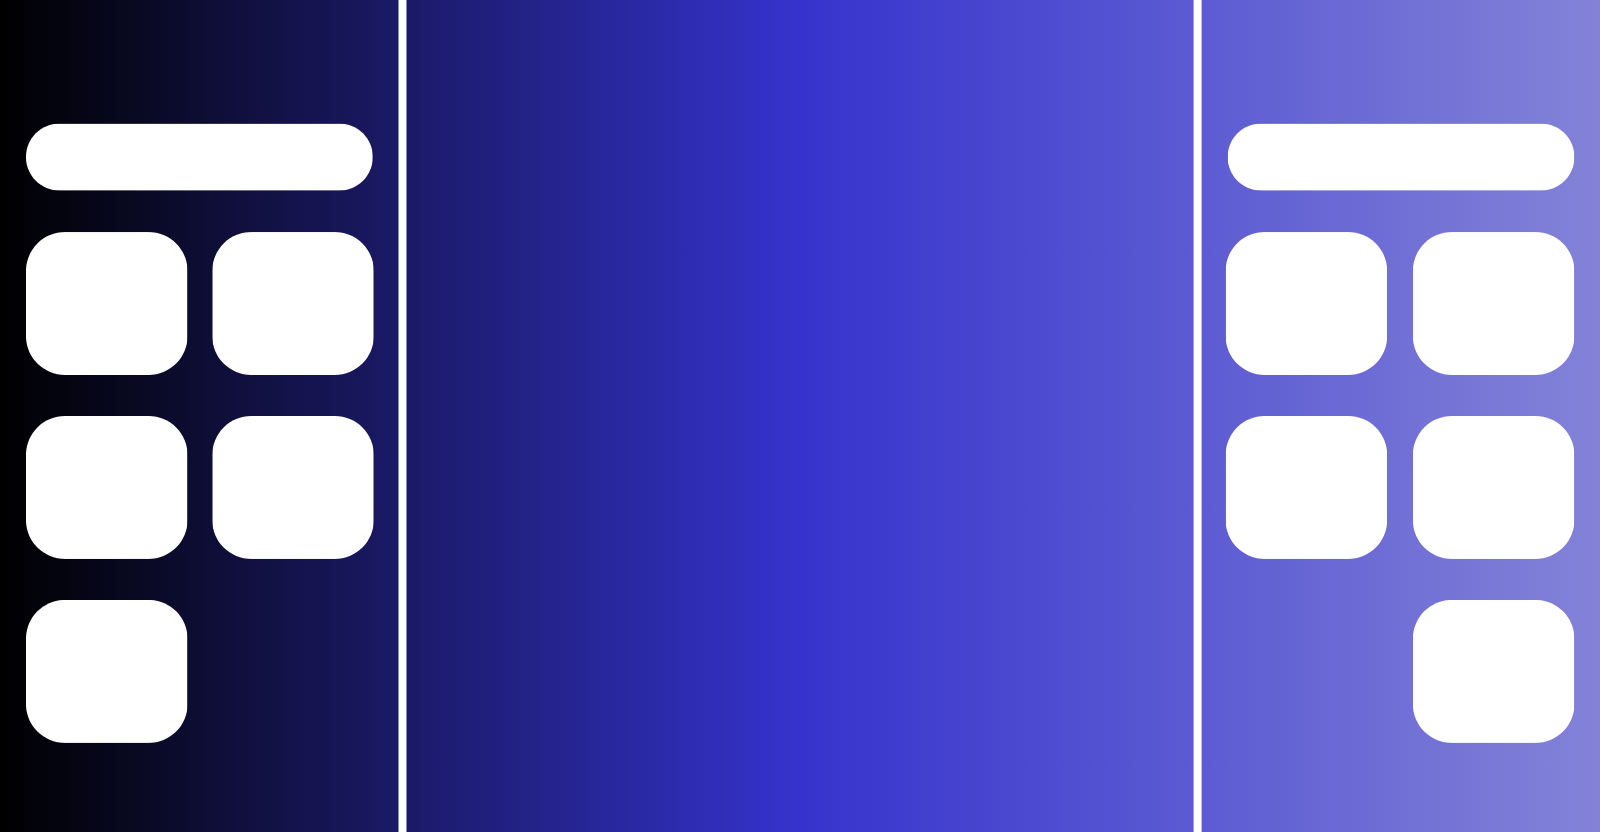
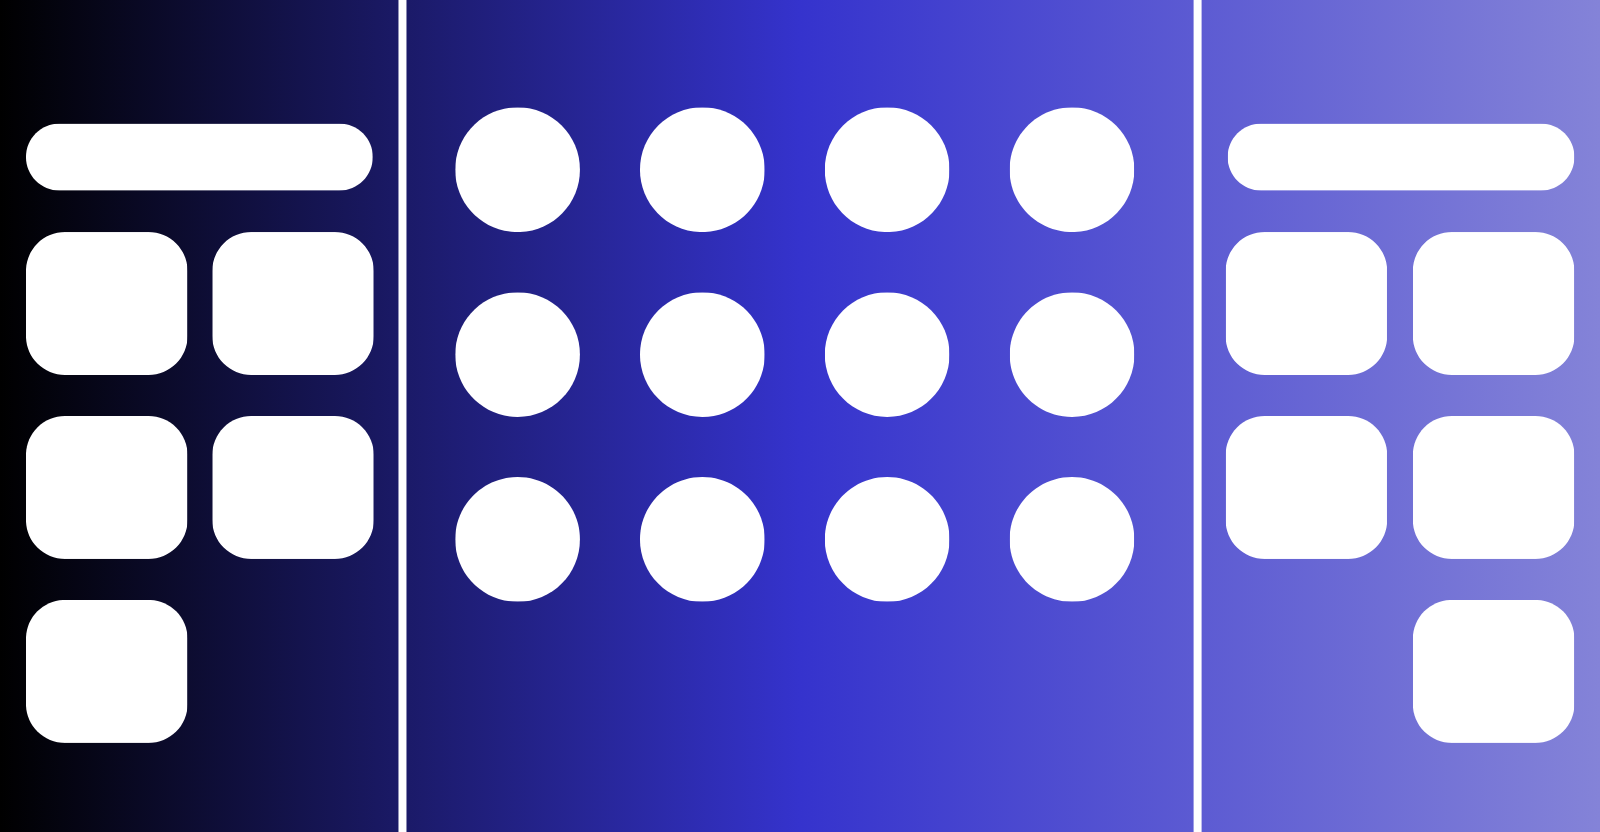
add circle in characterSelect scene

diff --git a/Scene/CharacterSelectScene.cpp b/Scene/CharacterSelectScene.cpp
@@ -42,6 +42,7 @@ void CharacterSelectScene::Initialize() {
     y1 = 123;
     x2 = 1228;
     y2 = 123;
+    circlePos = Engine::Point(0,0);
     AddNewObject(new Engine::Image("character-select/background.png", 0, 0, 0, 0, 0.0, 0.0));
     DrawTitle();
 
@@ -70,6 +71,7 @@ void CharacterSelectScene::Initialize() {
     AddNewControlObject(btn); 
     AddNewObject(new Engine::Label("Go", "pirulen.ttf", 36, halfW, halfH / 2 + 550, 0, 0, 0, 255, 0.5, 0.5));
 
+    UpdateCircle();
 }
 
 void CharacterSelectScene::Terminate() {
@@ -78,6 +80,23 @@ void CharacterSelectScene::Terminate() {
 
 void CharacterSelectScene::GoOnClick(){
     Engine::GameEngine::GetInstance().ChangeScene("MainPlay");
+}
+
+void CharacterSelectScene::UpdateCircle(){
+    int initX = 420;
+    int initY = 89;
+    int detX = 185;
+    int detY = 185;
+    if(circle) RemoveObject(circle->GetObjectIterator());
+
+    if(circlePos.x < 0 ) circlePos.x++;
+    else if(circlePos.x > 2) circlePos.x--;
+
+    if(circlePos.y < 0) circlePos.y++;
+    else if(circlePos.y > 3) circlePos.y--;
+
+    circle = new Engine::Image("character-select/circle.png",initX + detX * (int)circlePos.y, initY + detY * (int)circlePos.x, 0, 0);
+    AddNewObject(circle);
 }
 
 void CharacterSelectScene::DrawTitle(){
@@ -139,6 +158,13 @@ void CharacterSelectScene::OnKeyDown(int keyCode){
         player = 2;
         DrawTitle();
         SelectedOnClick(0, 2);
+    }
+	else if(keyCode == ALLEGRO_KEY_UP || keyCode == ALLEGRO_KEY_DOWN || keyCode == ALLEGRO_KEY_LEFT || keyCode == ALLEGRO_KEY_RIGHT){
+        if(keyCode == ALLEGRO_KEY_UP) circlePos.x--;
+        else if(keyCode == ALLEGRO_KEY_DOWN) circlePos.x++;
+        else if(keyCode == ALLEGRO_KEY_RIGHT) circlePos.y++;
+        else if(keyCode == ALLEGRO_KEY_LEFT) circlePos.y--;
+        UpdateCircle();
     }
 }
 

diff --git a/Scene/CharacterSelectScene.hpp b/Scene/CharacterSelectScene.hpp
@@ -24,6 +24,8 @@ public:
 	int y2;
 	Engine::Label* Title;
 	Engine::Image* rec;
+	Engine::Point circlePos;
+	Engine::Image* circle;
     explicit CharacterSelectScene() = default;
 	void Initialize() override;
 	void Terminate() override;
@@ -36,6 +38,7 @@ public:
 	void GoOnClick();
 	void DrawSelected_1(int stage);
 	void DrawSelected_2(int stage);
+	void UpdateCircle();
 };
 
 #endif // CharacterSelectScene_HPP
